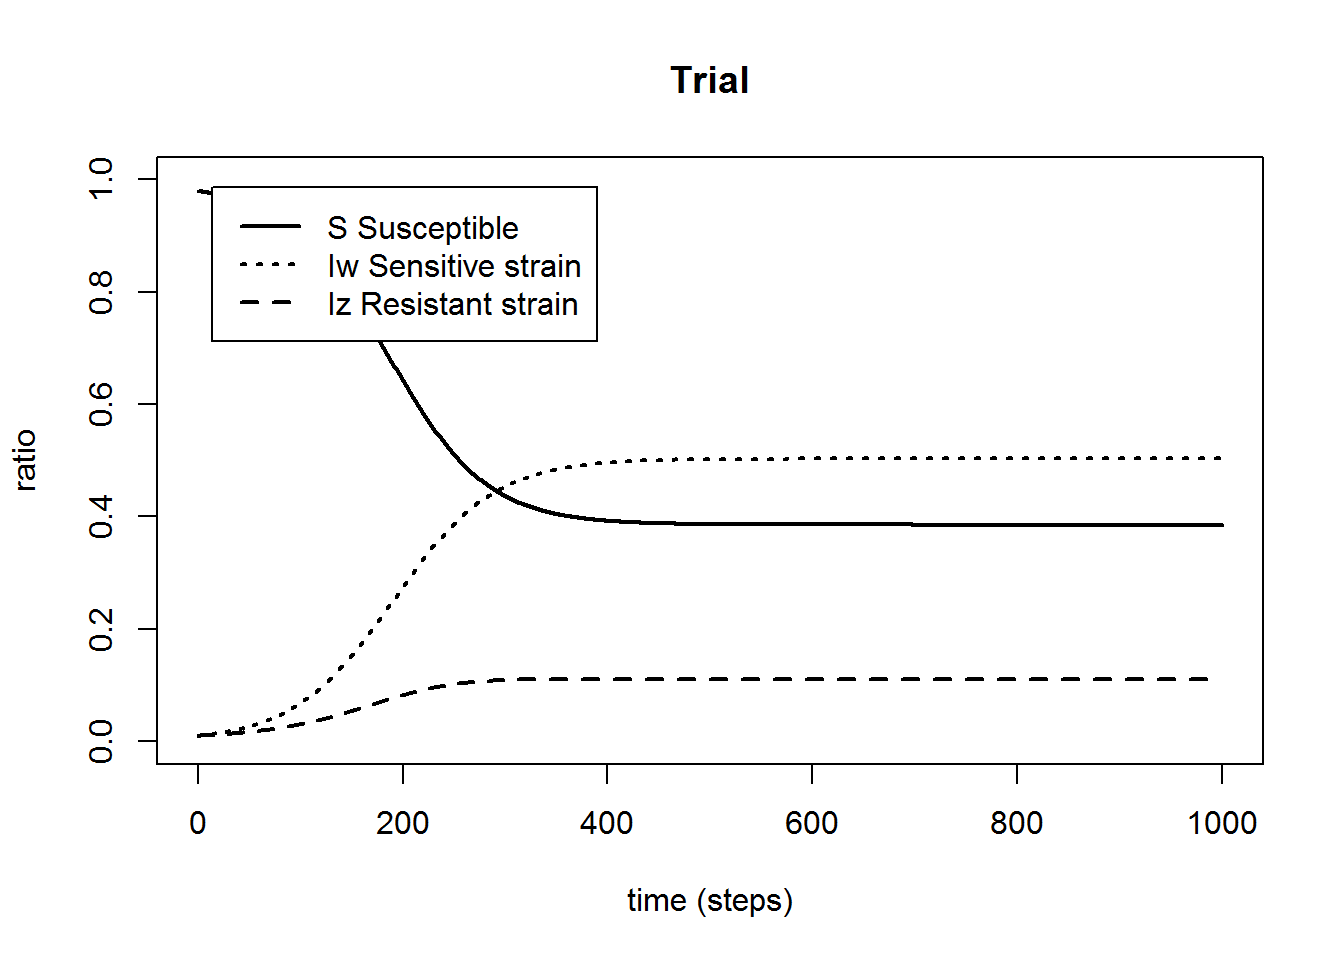
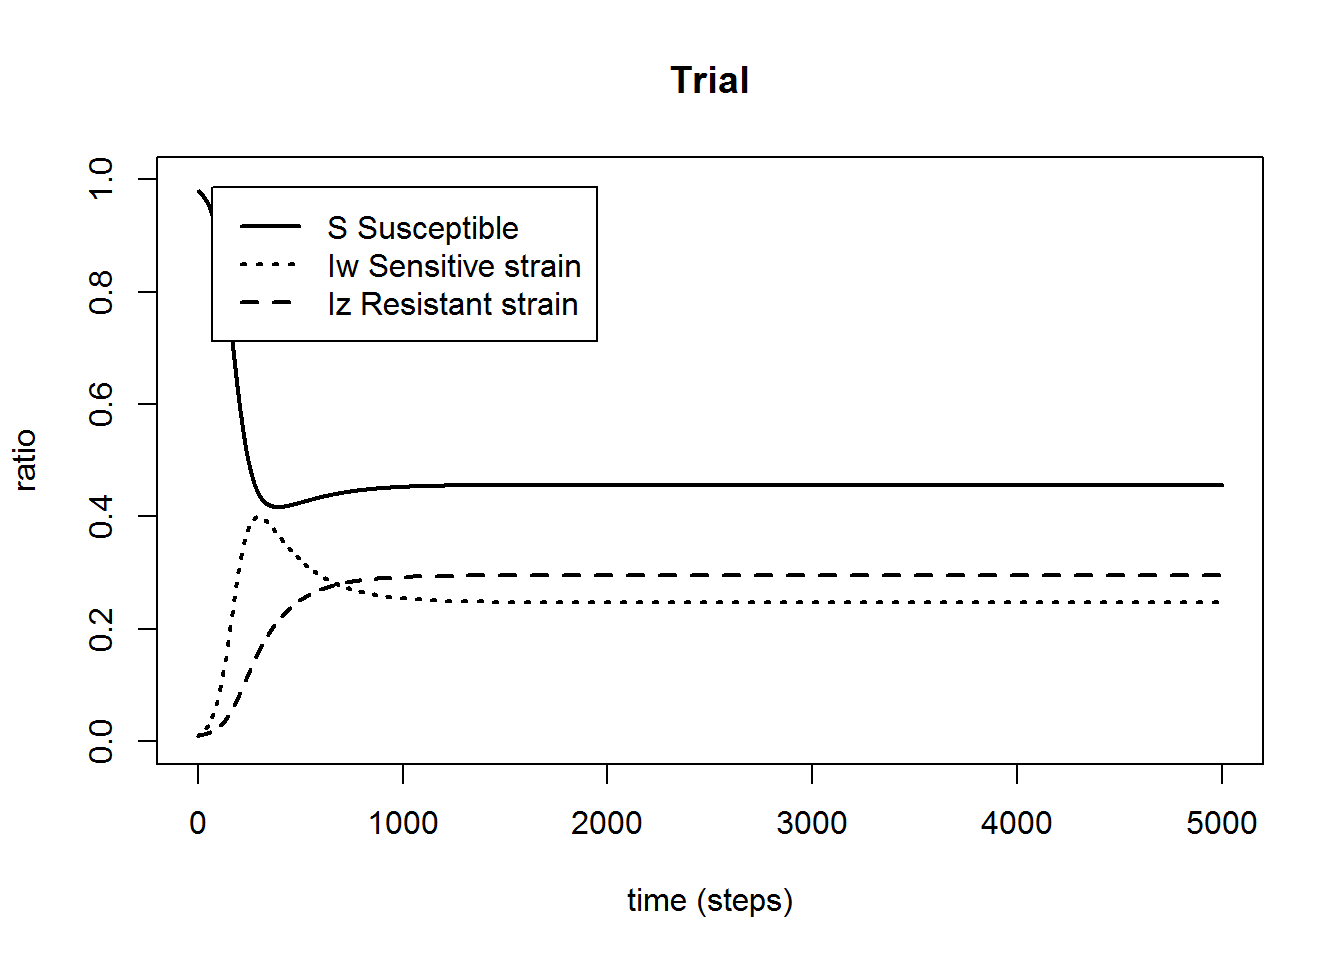
adding epsilon exploitation

diff --git a/Main_Supermodel.html b/Main_Supermodel.html
@@ -133,17 +133,17 @@ $(document).ready(function () {
 
 
  \end{aligned}\]</span>
-<pre class="r"><code>parameters &lt;- c(beta_w=pbeta_w, beta_z=pbeta_z, gamma=pgammaa, gamma_prim=pgamma_tilt, eps=peps, rho=prho, c=pc )
+<pre class="r"><code>parameters &lt;- c(beta_w=pbeta_w, beta_z=pbeta_z, gamma=pgammaa, gamma_prim=pgamma_tilt, eps=peps, rho=prho, c_zw=pc_zw, c_wz=pc_wz)
 
 state &lt;- c(S=1-2*prop, Iw=prop, Iz=prop)
 
-times=seq(0, a, by=m)
+times &lt;- seq(0, a, by=m)
 
 SIS=function(times, state, parameters){
   with(as.list(c(state,parameters)),
        {dS = - beta_w*Iw*S - beta_z*Iz*S + gamma*(1-eps)*Iw + gamma_prim*eps*Iw + gamma*Iz
-        dIw = beta_w*Iw*S + c*(1-eps)*beta_w*Iw*Iz - ((1-c)*(1-eps)+eps)*beta_z*Iz*Iw - rho*eps*Iw - gamma*(1-eps)*Iw - gamma_prim*eps*Iw
-        dIz = beta_z*Iz*S + ((1-c)*(1-eps)+eps)*beta_z*Iz*Iw + rho*eps*Iw - c*(1-eps)*beta_w*Iw*Iz - gamma*Iz
+        dIw = beta_w*Iw*S + c_zw*(1-eps)*beta_w*Iw*Iz - (c_wz*(1-eps)+eps)*beta_z*Iz*Iw - rho*eps*Iw - gamma*(1-eps)*Iw - gamma_prim*eps*Iw
+        dIz = beta_z*Iz*S + (c_wz*(1-eps)+eps)*beta_z*Iz*Iw + rho*eps*Iw - c_zw*(1-eps)*beta_w*Iw*Iz - gamma*Iz
         
         list(c(dS, dIw, dIz))
        })
@@ -152,7 +152,8 @@ SIS=function(times, state, parameters){
 out=as.data.frame(
   ode(y=state, times=times, func=SIS, parms=parameters)
 )</code></pre>
[3 lines of base64/hex data omitted]
 
 
 
